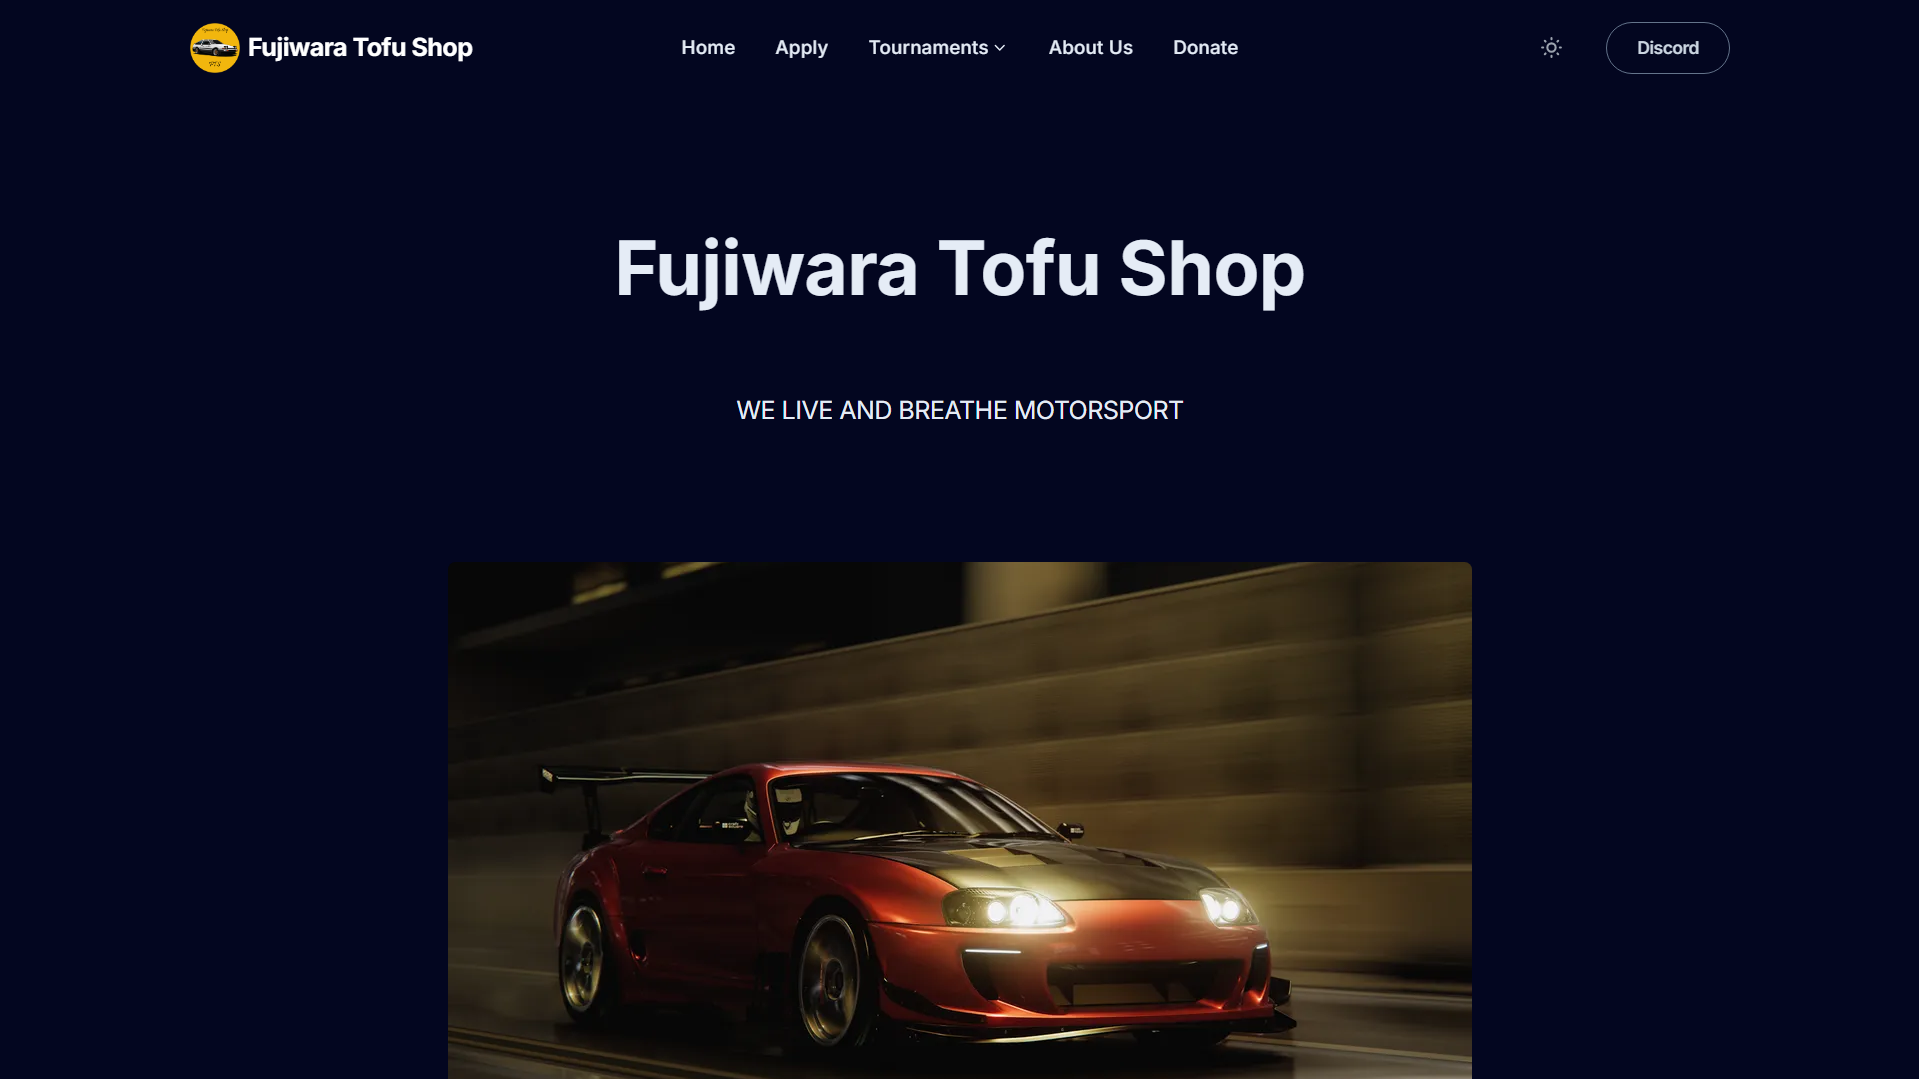
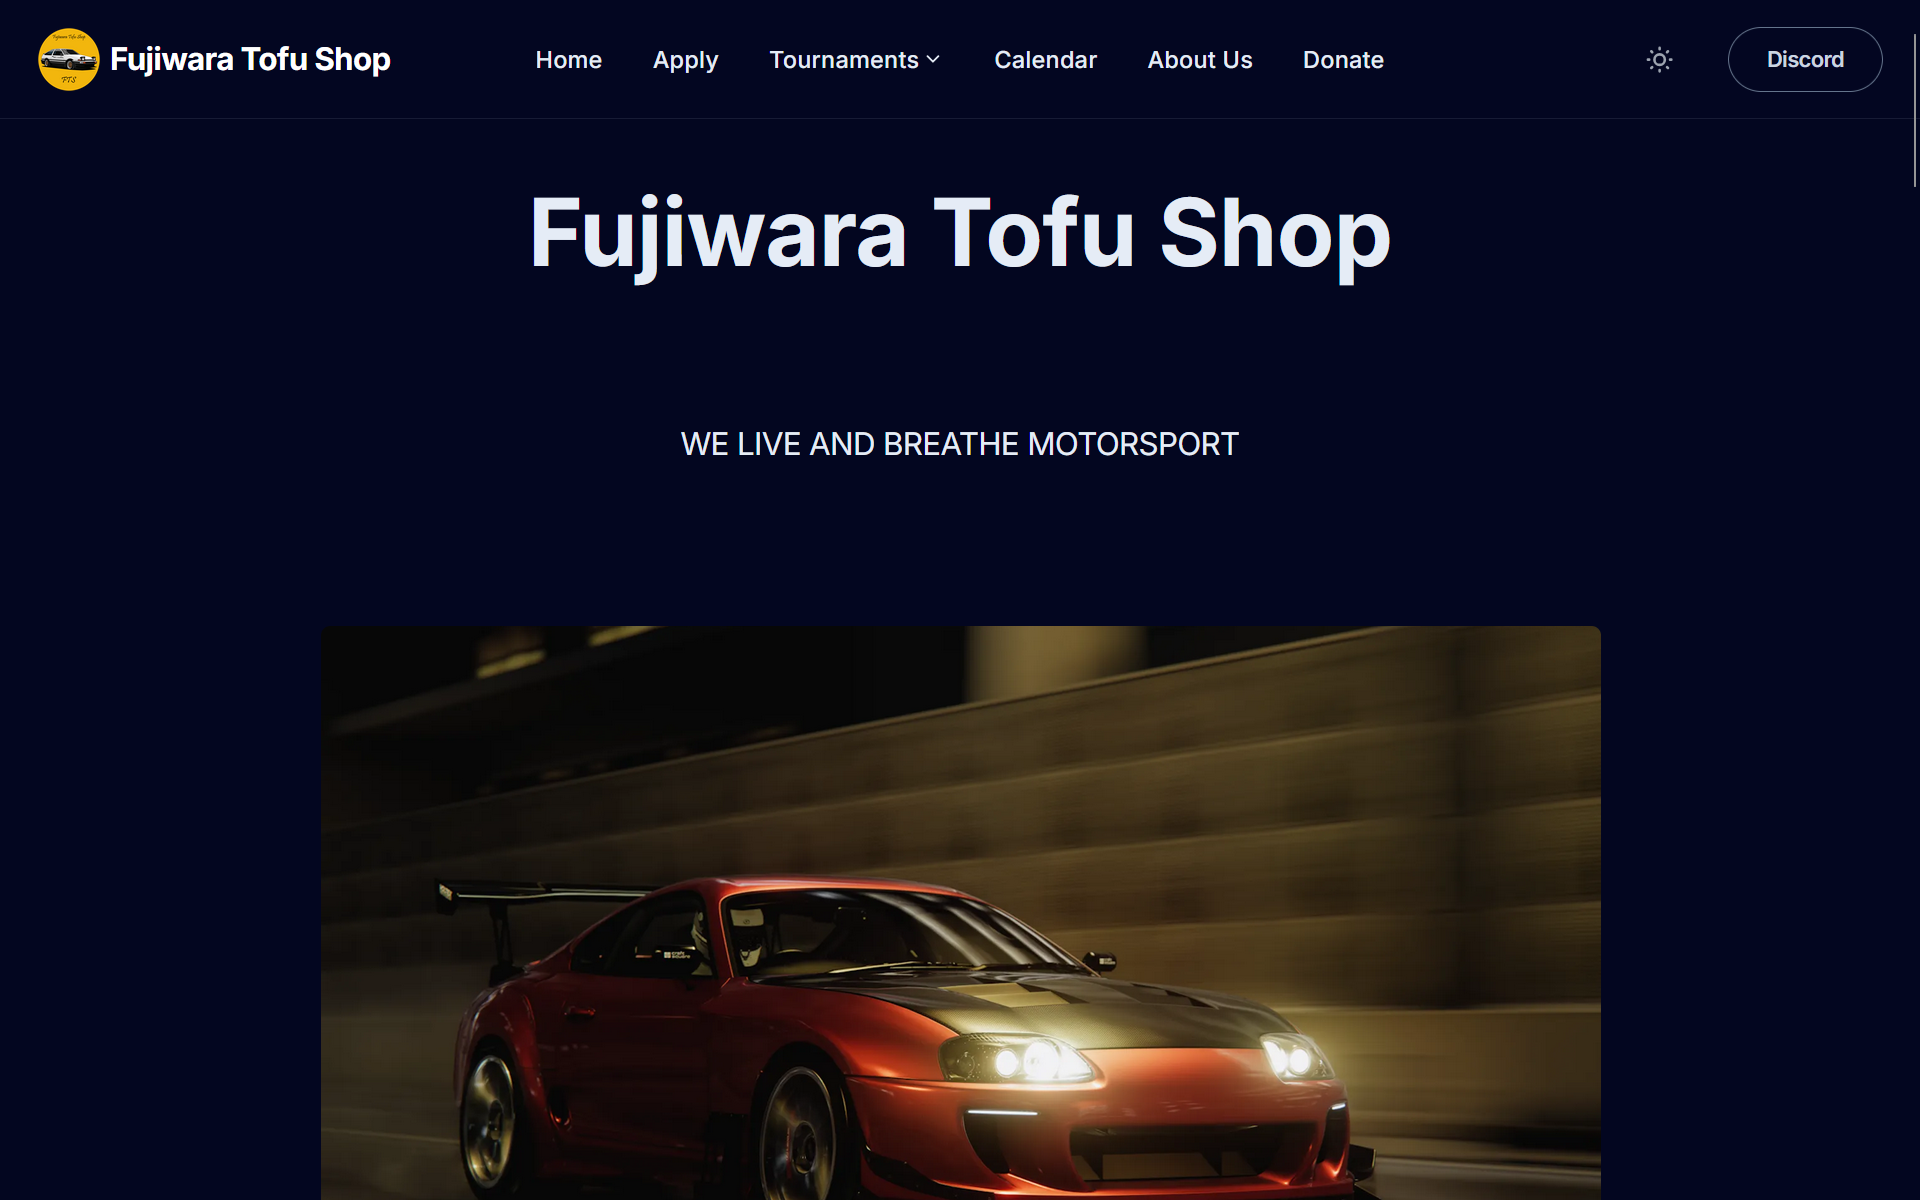
fixed the host domains

diff --git a/astro.config.ts b/astro.config.ts
@@ -87,7 +87,7 @@ export default defineConfig({
       },
     },
     server: {
-      allowedHosts: ['www.fujiwaratofu.shop', 'fujiwaratofu.shop', 'www.yukisama.de', 'yukisama.de']
+      allowedHosts: ['www.fujiwaratofu.shop', 'fujiwaratofu.shop', 'racing.kmf.one']
     },
   },
 });
